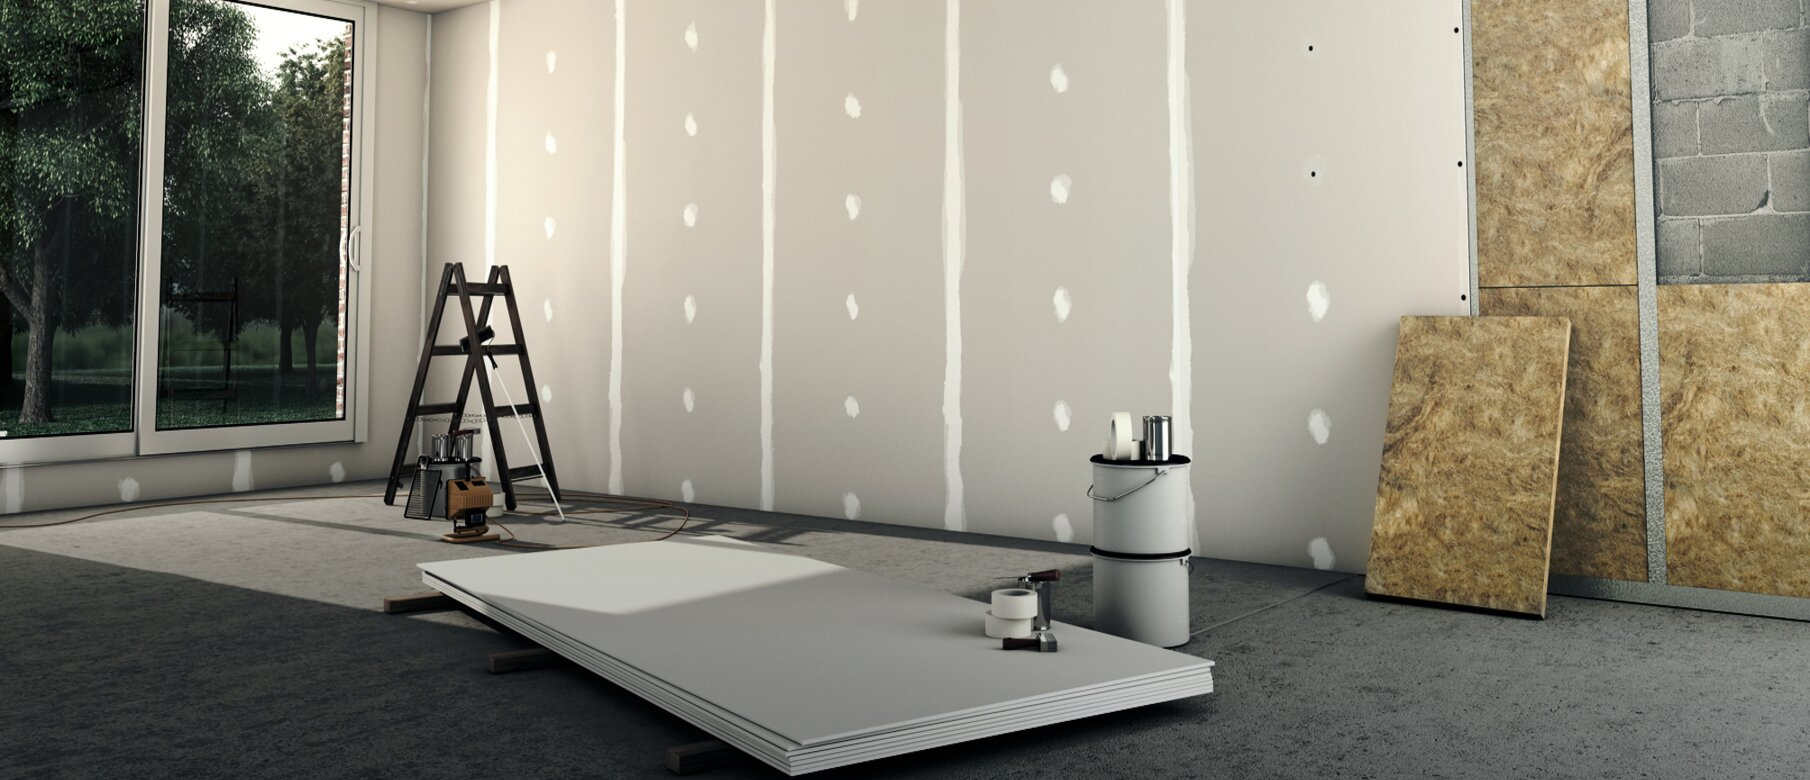
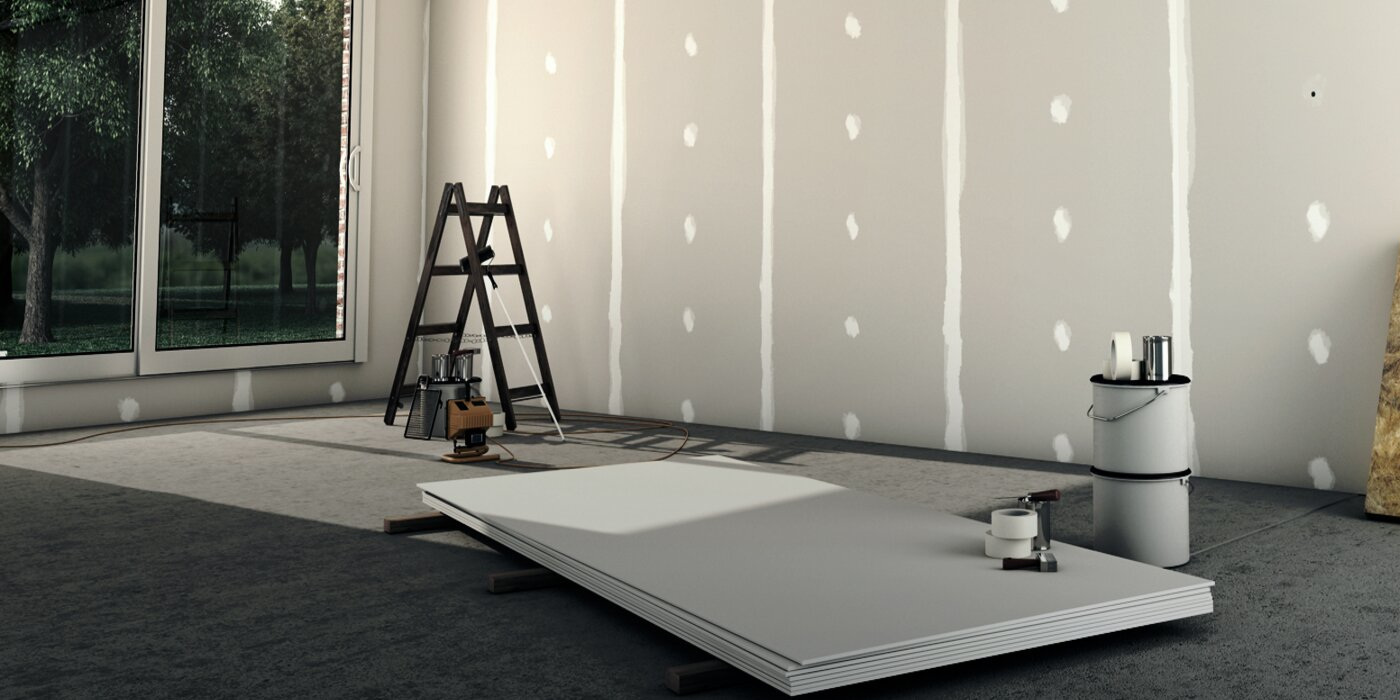
page edit: home

diff --git a/app/page.tsx b/app/page.tsx
@@ -4,11 +4,12 @@ import { Navbar } from "@/components/Navbar";
 import { Whatsapp } from "@/components/Whatsapp";
 import {
   Audiowide,
-  Megrim,
   Orbitron,
   Oswald,
   Raleway,
   Wallpoet,
+  Allerta_Stencil,
+  Sirin_Stencil,
 } from "next/font/google";
 import Image from "next/image";
 import Link from "next/link";
@@ -21,7 +22,8 @@ const oswald = Oswald({
   subsets: ["latin"],
 });
 
-const title = Audiowide({
+//const title = Audiowide({
+const title = Raleway({
   weight: ["400"],
   style: "normal",
   variable: "--font-Oswald",
@@ -87,7 +89,10 @@ export default function Home() {
   ];
 
   const fondoHome =
-    "https://corpbps.com/wp-content/uploads/2022/12/Servicios-Generales.jpg";
+    "https://www.fomora.com/wp-content/uploads/2025/09/fomora-reformas-integrales-precios-2025.jpg";
+  //"https://espaintegral.com/wp-content/uploads/2015/01/slider-Pareja.jpg"
+  //"https://serviciosgeneralesacr.com/images/servicios-generales-y-mantenimiento.jpg"
+  // "https://corpbps.com/wp-content/uploads/2022/12/Servicios-Generales.jpg";
   //"https://decorexpro.com/images/article/orig/2017/12/odnokomnatnaya-kvartira-v-stile-loft-primery-oformleniya-1.jpg";
   //home2 "https://joseph.cl/assets/img/heroes/hero-remodelaciones-desktop-1920.jpg";
   const fondoPanal =
@@ -108,54 +113,106 @@ export default function Home() {
       </div>
 
       <section id="home" className="w-full">
+        <div className="bg-black h-16"></div>
         <div
-          className="lg:h-[800] bg-[#141414] text-gray-300"
+          className="lg:h-[700] bg-[#141414] text-gray-300"
           style={{
-            backgroundImage: `linear-gradient(rgba(0,0,0,0.8), rgba(0,0,0,0.5)), url(${fondoHome})`,
+            backgroundImage: `linear-gradient(rgba(0,0,0,0.7), rgba(0,0,0,0.3)), url(${fondoHome})`,
             backgroundSize: "cover",
             //backgroundAttachment: "fixed",
-            backgroundPosition: "70%",
+            backgroundPosition: "45%",
           }}
         >
-          <div className=" w-full lg:h-[800] h-[700] flex flex-col items-center justify-evenly font-bold p-5 lg:p-0 lg:py-5">
+          <div className=" w-full lg:h-[600] h-[700] flex flex-col items-center justify-evenly font-bold p-5 lg:p-0 lg:py-5">
             <div className="lg:block hidden"> </div>
-            <div className="w-full lg:w-[1200]">
-              <div
-                className={` ${title.className} antialiased w-full lg:w-[800] mb-5 lg:mb-20 uppercase `}
-              >
-                <h1 className="text-2xl lg:text-6xl">Bienvenido a</h1>
-                <h1 className="text-3xl lg:text-4xl mt-2">
-                  <span className="font-bold">
-                    {" "}
-                    S<span className="text-teal-200">G</span>J{" "}
+            <div className="w-full lg:w-[1200] text-gray-100">
+              <div className={`w-full mb-5 lg:mb-20  font-semibold `}>
+                <h1 className="text-4xl lg:text-7xl">Mantenimiento y </h1>
+                <h1 className="text-4xl lg:text-7xl mt-2">
+                  Reformas de
+                  <span className="text-teal-400"> calidad </span> <br />
+                  <span className="hidden lg:block text-xl lg:text-4xl mt-3">
+                    y sin lista de espera
                   </span>
-                  Soluciones Generales
                 </h1>
               </div>
-              <div className="lg:w-[550] text-justify text-base lg:text-xl lg:pr-8 pr-0">
-                <span className="">Nos dedicamos a ofrecer </span>
-                soluciones internas para su negocio o vivienda,
-                <span className="font-bold text-teal-200">
-                  {" "}
-                  nuestro equipo de profesionales
+              <div className="lg:w-[600] text-justify text-base lg:text-xl lg:pr-8 pr-0">
+                <span className="">
+                  Ofrecemos soluciones internas para su negocio o vivienda
                 </span>{" "}
+                <br />
+                <span className=" fam-title font-semibold text-teal-300">
+                  Nuestro equipo de profesionales {" "}
+                </span>
                 está capacitado para brindar servicios de alta calidad.
               </div>
             </div>
 
             <div className="w-full lg:w-[1200]  flex lg:flex-row flex-col gap-3 text-white text-center">
               <Link
+                href="https://api.whatsapp.com/send?phone=+51939065454&text=Hola, estoy interesado en sus servicios."
+                className="px-10 lg:py-3 py-2.5 bg-teal-600/90 hover:bg-teal-500 flex flex-row items-center gap-x-2 animate-bounce2"
+              >
+                <span className="">
+                  <svg
+                    fill="#ffffff"
+                    width="20px"
+                    height="20px"
+                    viewBox="0 0 24 24"
+                    xmlns="http://www.w3.org/2000/svg"
+                  >
+                    <g id="SVGRepo_bgCarrier" strokeWidth="0"></g>
+                    <g
+                      id="SVGRepo_tracerCarrier"
+                      strokeLinecap="round"
+                      strokeLinejoin="round"
+                    ></g>
+                    <g id="SVGRepo_iconCarrier">
+                      <path d="m15.271 13.21c.578.185 1.078.416 1.543.7l-.031-.018c.529.235.986.51 1.403.833l-.015-.011c.02.061.032.13.032.203 0 .011 0 .021-.001.032v-.001c-.015.429-.11.832-.271 1.199l.008-.021c-.231.463-.616.82-1.087 1.01l-.014.005c-.459.243-1.001.393-1.576.411h-.006c-1.1-.146-2.094-.484-2.988-.982l.043.022c-1.022-.468-1.895-1.083-2.636-1.829l-.001-.001c-.824-.857-1.579-1.795-2.248-2.794l-.047-.074c-.636-.829-1.041-1.866-1.1-2.995l-.001-.013v-.124c.032-.975.468-1.843 1.144-2.447l.003-.003c.207-.206.491-.335.805-.341h.001c.101.003.198.011.292.025l-.013-.002c.087.013.188.021.292.023h.003c.019-.002.04-.003.062-.003.13 0 .251.039.352.105l-.002-.001c.107.118.189.261.238.418l.002.008q.124.31.512 1.364c.135.314.267.701.373 1.099l.014.063c-.076.361-.268.668-.533.889l-.003.002q-.535.566-.535.72c.004.088.034.168.081.234l-.001-.001c.405.829.936 1.533 1.576 2.119l.005.005c.675.609 1.446 1.132 2.282 1.54l.059.026c.097.063.213.103.339.109h.002q.233 0 .838-.752t.804-.752zm-3.147 8.216h.022c1.357 0 2.647-.285 3.814-.799l-.061.024c2.356-.994 4.193-2.831 5.163-5.124l.024-.063c.49-1.113.775-2.411.775-3.775s-.285-2.662-.799-3.837l.024.062c-.994-2.356-2.831-4.193-5.124-5.163l-.063-.024c-1.113-.49-2.411-.775-3.775-.775s-2.662.285-3.837.799l.062-.024c-2.356.994-4.193 2.831-5.163 5.124l-.024.063c-.49 1.117-.775 2.419-.775 3.787 0 2.141.698 4.12 1.879 5.72l-.019-.026-1.225 3.613 3.752-1.194c1.49 1.01 3.327 1.612 5.305 1.612h.047zm0-21.426h.033c1.628 0 3.176.342 4.575.959l-.073-.029c2.825 1.197 5.028 3.4 6.196 6.149l.029.076c.588 1.337.93 2.896.93 4.535s-.342 3.198-.959 4.609l.029-.074c-1.197 2.825-3.4 5.028-6.149 6.196l-.076.029c-1.327.588-2.875.93-4.503.93-.011 0-.023 0-.034 0h.002c-.016 0-.034 0-.053 0-2.059 0-3.992-.541-5.664-1.488l.057.03-6.465 2.078 2.109-6.279c-1.051-1.714-1.674-3.789-1.674-6.01 0-1.646.342-3.212.959-4.631l-.029.075c1.197-2.825 3.4-5.028 6.149-6.196l.076-.029c1.327-.588 2.875-.93 4.503-.93h.033-.002z"></path>
+                    </g>
+                  </svg>
+                </span>
+
+                <span>Pide tu presupuesto gratis</span>
+              </Link>
+              <Link
+                href="tel:+51939065454"
+                className="px-10 lg:py-3 py-2.5 border border-gray-200 hover:bg-gray-100/20 Xtracking-widest flex flex-row items-center justify-center gap-x-2"
+              >
+                <span>
+                  <svg
+                    width="20px"
+                    height="20px"
+                    viewBox="0 0 24 24"
+                    fill="none"
+                    xmlns="http://www.w3.org/2000/svg"
+                  >
+                    <g id="SVGRepo_bgCarrier" strokeWidth="0"></g>
+                    <g
+                      id="SVGRepo_tracerCarrier"
+                      strokeLinecap="round"
+                      strokeLinejoin="round"
+                    ></g>
+                    <g id="SVGRepo_iconCarrier">
+                      {" "}
+                      <path
+                        d="M3 5.5C3 14.0604 9.93959 21 18.5 21C18.8862 21 19.2691 20.9859 19.6483 20.9581C20.0834 20.9262 20.3009 20.9103 20.499 20.7963C20.663 20.7019 20.8185 20.5345 20.9007 20.364C21 20.1582 21 19.9181 21 19.438V16.6207C21 16.2169 21 16.015 20.9335 15.842C20.8749 15.6891 20.7795 15.553 20.6559 15.4456C20.516 15.324 20.3262 15.255 19.9468 15.117L16.74 13.9509C16.2985 13.7904 16.0777 13.7101 15.8683 13.7237C15.6836 13.7357 15.5059 13.7988 15.3549 13.9058C15.1837 14.0271 15.0629 14.2285 14.8212 14.6314L14 16C11.3501 14.7999 9.2019 12.6489 8 10L9.36863 9.17882C9.77145 8.93713 9.97286 8.81628 10.0942 8.64506C10.2012 8.49408 10.2643 8.31637 10.2763 8.1317C10.2899 7.92227 10.2096 7.70153 10.0491 7.26005L8.88299 4.05321C8.745 3.67376 8.67601 3.48403 8.55442 3.3441C8.44701 3.22049 8.31089 3.12515 8.15802 3.06645C7.98496 3 7.78308 3 7.37932 3H4.56201C4.08188 3 3.84181 3 3.63598 3.09925C3.4655 3.18146 3.29814 3.33701 3.2037 3.50103C3.08968 3.69907 3.07375 3.91662 3.04189 4.35173C3.01413 4.73086 3 5.11378 3 5.5Z"
+                        stroke="#ffffff"
+                        strokeWidth="2"
+                        strokeLinecap="round"
+                        strokeLinejoin="round"
+                      ></path>{" "}
+                    </g>
+                  </svg>
+                </span>
+                <span>Llamar ahora</span>
+              </Link>
+              <Link
+                hidden
                 href="tel:+51939065454"
                 className="px-10 lg:py-4 py-2.5 bg-teal-500/90 hover:bg-gray-100 hover:text-teal-500 Xtracking-widest"
               >
                 Llámenos: <span className="fam-number"> 939 065 454</span>
-              </Link>
-
-              <Link
-                href="https://api.whatsapp.com/send?phone=+51939065454&text=Hola, estoy interesado en sus servicios."
-                className="px-10 lg:py-4 py-2.5 bg-teal-500/90 hover:bg-gray-100 hover:text-teal-500"
-              >
-                Escribir por Whatsapp
               </Link>
             </div>
 
@@ -855,7 +912,7 @@ export default function Home() {
 
       <section id="gasfiteria" className="w-full">
         <div
-          className="Xmin-h-screen bg-gray-100 text-gray-600 Xbg-[#141414] w-full rounded-4xl"
+          className="Xmin-h-screen bg-gray-100 text-gray-600 Xbg-[#141414] w-full rounded-xl"
           style={{
             //backgroundImage: `linear-gradient(rgba(0,0,0,0.5), rgba(0,0,0,0.5)), url('/images/gasfiteria/fondo.jpg')`,
             backgroundSize: "cover",
@@ -864,17 +921,24 @@ export default function Home() {
           }}
         >
           <div className="w-full flex flex-col items-center py-20">
-            <div className="w-full lg:w-[1200] p-5 lg:p-0 flex flex-col lg:flex-row">
+            <div className="w-full lg:w-[1320] p-5 lg:p-0 flex flex-col lg:flex-row">
               <div className="lg:w-1/4 mb-10">
                 <h1 className="title lg:text-4xl text-2xl mb-5">Gasfiteria</h1>
-                <p>
-                  Reparación de fugas <br />
-                  Limpieza y destape de tuberías, lavaderos, inodoros y cajas de
-                  registro. <br />
-                  Instalaciones sanitarias: Montaje de griferías, duchas,
-                  sanitarios, termas y tanques elevados. <br />
-                  Instalación o mantenimiento de bomba rotoplas y trampas.
-                </p>
+                <ul className="list-disc Xlist-inside">
+                  <li>Reparación de fugas</li>
+                  <li>
+                    Limpieza y destape de tuberías, lavaderos, inodoros y cajas
+                    de registro.
+                  </li>
+                  <li>Instalaciones sanitarias</li>
+                  <li>
+                    Montaje de griferías, duchas, sanitarios, termas y tanques
+                    elevados.
+                  </li>
+                  <li>
+                    Instalación o mantenimiento de bomba rotoplas y trampas.
+                  </li>
+                </ul>
               </div>
               <div className="lg:w-3/4 grid lg:grid-cols-3 grid-cols-2 gap-5">
                 <div className="relative w-full px-5 lg:h-80 h-50">

diff --git a/components/Navbar.tsx b/components/Navbar.tsx
@@ -95,7 +95,7 @@ export const Navbar = () => {
     <section className={` `}>
       <div className="w-full">
         <nav className="w-full z-30 h-16 p-2 text-gray-300 flex justify-center items-center bg-black/40 backdrop-blur-2xl">
-          <div className="w-[1440] flex flex-row justify-between items-center">
+          <div className="w-[1320] flex flex-row justify-between items-center">
             <div className=" flex flex-row justify-between items-center">
               <div className="relative w-9 h-9 m-1 mr-3">
                 <Image
@@ -113,20 +113,20 @@ export const Navbar = () => {
               </div>
               <div>
                 <div
-                  className={` fam-title w-full flex justify-center font-semibold text-xl tracking-widest`}
+                  className={`fam-title w-full flex justify-center font-semibold text-xl tracking-widest`}
                 >
                   GRUPO SGJ
                 </div>
-                <div className="fam-title -mt-1 text-xs font-semibold tracking-wider">
+                <div className="fam-bebas -mt-1 text-xs font-semibold tracking-wider">
                   Soluciones Generales
                 </div>
               </div>
             </div>
 
-            <div className="hidden lg:flex flex-row gap-4 uppercase text-sm font-semibold tracking-widest whitespace-nowrap">
+            <div className="hidden lg:flex flex-row gap-4 uppercase text-xs font-semibold tracking-widest whitespace-nowrap">
               <div>
                 <Link href="/" className="p-2 hover:border-b border-teal-500">
-                  Home
+                  Inicio
                 </Link>
               </div>
               <div>

diff --git a/app/globals.css b/app/globals.css
@@ -27,6 +27,20 @@ html {
   }
 }
 
+@keyframes bounce2 {
+  0%, 100% {
+    transform: translateY(-8%);
+    animationTimingFunction: cubic-bezier(0.8, 0, 1, 1);
+  }
+  50% {
+    transform: translateY(0);
+    animationTimingFunction: cubic-bezier(0, 0, 0.2, 1);
+  }
+}
+
+.animate-bounce2	{animation: bounce2 2s infinite;}
+
+
 body {
   background: #fff;
   color: var(--foreground);   
@@ -53,8 +67,8 @@ body {
   font-family: "Bebas Neue", sans-serif;
 }
 
-.fam-orbitron {
-  font-family: "Orbitron", sans-serif;
+.fam-title {
+  font-family: "Nova Flat", sans-serif;
 }
 
 .fam-aw {
